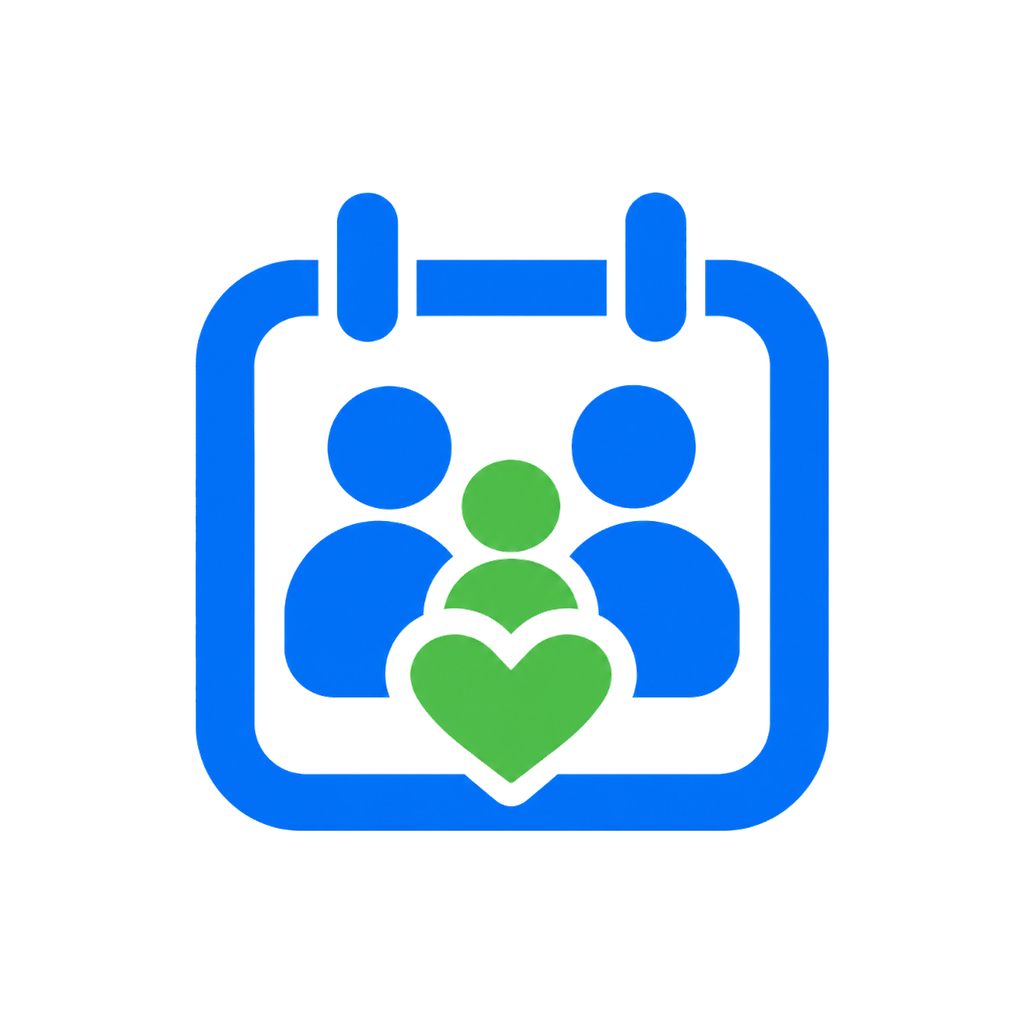
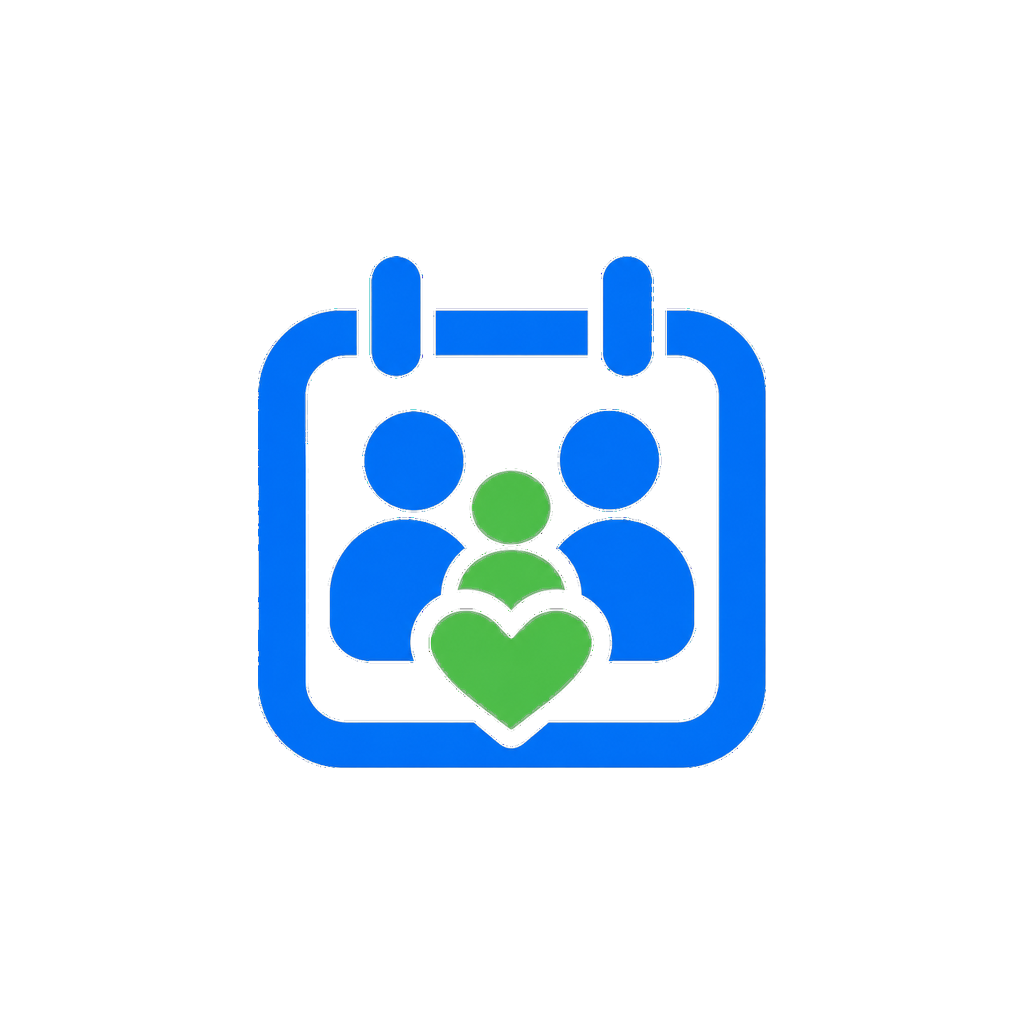
feat: lembrete para o responsável, vencimento pela subtarefa e ícone Android
- lembretes de tarefa com responsável vão só para ele e quem criou
- agendador lê só tarefas pendentes
- tarefa principal vence junto da subtarefa mais tardia (app e API)
- ação com desfazer é gravada ao ir para segundo plano
- subtarefa desmarca de volta se o servidor recusar
- papéis de acessibilidade nos botões
- ícone adaptativo menor sobre azul-marinho; versão 1.1.0

Changed region(s): [[0.1875, 0.1875, 0.8125, 0.8125]]

diff --git a/functions/src/services/notifyDueTasks.ts b/functions/src/services/notifyDueTasks.ts
@@ -2,6 +2,14 @@ import { db } from "../config/firebase";
 import { isReminderDue, leadMinutesOf, localParts, reminderKey } from "./dueReminder";
 import { notifyUsers } from "./pushNotifications";
 type Recipient = { uid: string; lead: number };
+// Quem recebe o lembrete: privada, só quem criou; com responsável, ele e quem criou;
+// sem responsável, a família toda.
+export function reminderRecipients(task: Record<string, unknown>, members: Recipient[]) {
+  if (task.isPrivate === true) return members.filter((m) => m.uid === task.createdBy);
+  if (typeof task.assignedTo === "string" && task.assignedTo)
+    return members.filter((m) => m.uid === task.assignedTo || m.uid === task.createdBy);
+  return members;
+}
 const leadText = (lead: number) =>
   lead >= 1440 ? "amanhã" : lead >= 60 ? `em ${lead / 60} h` : `em ${lead} min`;
 // Lê o estado atual das tarefas a cada execução: excluídas, concluídas ou com a
@@ -10,8 +18,9 @@ const leadText = (lead: number) =>
 export async function notifyDueTasks(now: Date = new Date()) {
   const day = 24 * 60 * 60 * 1000;
   const dates = [-1, 0, 1].map((offset) => localParts(new Date(now.getTime() + offset * day)).date);
-  const snapshot = await db.collection("tasks").where("dueDate", "in", dates).get();
-  const pending = snapshot.docs.filter((doc) => doc.data().completed !== true && doc.data().skipped !== true);
+  // Só as pendentes: concluídas nem são lidas (roda a cada 5 minutos).
+  const snapshot = await db.collection("tasks").where("dueDate", "in", dates).where("completed", "==", false).get();
+  const pending = snapshot.docs.filter((doc) => doc.data().skipped !== true);
   const families = new Map<string, Promise<Recipient[]>>();
   const membersOf = (familyId: string) => {
     if (!families.has(familyId))
@@ -26,9 +35,7 @@ export async function notifyDueTasks(now: Date = new Date()) {
   for (const doc of pending) {
     const task = doc.data();
     if (typeof task.familyId !== "string") continue;
-    // Pública: toda a família. Privada: somente quem criou.
-    const members = await membersOf(task.familyId);
-    const recipients = task.isPrivate === true ? members.filter((m) => m.uid === task.createdBy) : members;
+    const recipients = reminderRecipients(task, await membersOf(task.familyId));
     const key = reminderKey(task);
     for (const { uid, lead } of recipients) {
       if (!isReminderDue(task, now, lead)) continue;

diff --git a/src/controllers/useTaskController.ts b/src/controllers/useTaskController.ts
@@ -1,4 +1,5 @@
 import { useEffect, useMemo, useRef, useState } from "react";
+import { AppState } from "react-native";
 import type { TaskFilter } from "../models/Navigation";
 import type { Profile } from "../models/Profile";
 import type { Task } from "../models/Task";
@@ -90,7 +91,16 @@ export function useTaskController(
       onActionError(failure);
     }
   };
+  const commitRef = useRef(commit);
+  commitRef.current = commit;
   useEffect(() => () => void commit(), [uid]);
+  // O app pode ser fechado em segundo plano: grava antes que a ação se perca.
+  useEffect(() => {
+    const subscription = AppState.addEventListener("change", (state) => {
+      if (state !== "active") void commitRef.current();
+    });
+    return () => subscription.remove();
+  }, []);
   const defer = async (task: Task, label: string, run: () => Promise<void>) => {
     await commit();
     setPending({ taskId: task.id, label });
@@ -109,9 +119,9 @@ export function useTaskController(
     if (task.completed || task.skipped) return toggleTask(task);
     await defer(task, "Tarefa concluída", () => toggleTask(task));
   };
-  // Marca na hora (otimista); se o servidor recusar, o tempo real desfaz.
+  // Marca na hora (otimista); se o servidor recusar, desmarca de volta.
   const toggleItem = async (task: Task, subtaskId: string) => {
-    setTasks((current) =>
+    const flip = () => setTasks((current) =>
       current.map((item) =>
         item.id !== task.id
           ? item
@@ -123,7 +133,13 @@ export function useTaskController(
             },
       ),
     );
-    await toggleSubtask(task, subtaskId);
+    flip();
+    try {
+      await toggleSubtask(task, subtaskId);
+    } catch (failure) {
+      flip();
+      throw failure;
+    }
   };
   const skip = async (task: Task) => {
     await commit();

diff --git a/functions/src/shared/validateTask.ts b/functions/src/shared/validateTask.ts
@@ -92,11 +92,12 @@ export function validateTask(merged: Raw) {
         dueTime: optionalString(item.dueTime),
       });
     });
+  const due = latestDue(merged.dueDate as string, (dueTime as string) || null, subtasks);
   const data = {
     title,
     description: (description as string).trim(),
-    dueDate: merged.dueDate as string,
-    dueTime: dueTime || null,
+    dueDate: due.dueDate,
+    dueTime: due.dueTime,
     category: category as string,
     isPrivate: isPrivate as boolean,
     assignedTo: assignedTo as string | null,
@@ -107,4 +108,29 @@ export function validateTask(merged: Raw) {
     recurrenceEndDate,
   };
   return { data, errors };
+}
+
+// A tarefa principal não pode vencer antes das subtarefas: se alguma subtarefa
+// vence depois, a principal passa a usar essa data (e o horário dela, se tiver).
+type Due = { dueDate?: unknown; dueTime?: unknown };
+export function latestDue(
+  dueDate: string,
+  dueTime: string | null,
+  subtasks: readonly Due[],
+): { dueDate: string; dueTime: string | null } {
+  let date = dueDate;
+  let time = dueTime;
+  for (const item of subtasks) {
+    if (typeof item.dueDate !== "string" || !item.dueDate) continue;
+    const itemTime = typeof item.dueTime === "string" && item.dueTime ? item.dueTime : null;
+    // Datas AAAA-MM-DD e horários HH:MM comparam certo como texto. Sem horário = fim do dia.
+    const later =
+      item.dueDate > date ||
+      (item.dueDate === date && time !== null && (itemTime === null || itemTime > time));
+    if (later) {
+      date = item.dueDate;
+      time = itemTime;
+    }
+  }
+  return { dueDate: date, dueTime: time };
 }

diff --git a/src/views/CalendarView.tsx b/src/views/CalendarView.tsx
@@ -51,15 +51,15 @@ export function CalendarView({ controller }: { controller: AgendaController }) {
     <>
       <View style={s.card}>
         <View style={s.row}>
-          <Pressable accessibilityLabel="Mês anterior" onPress={() => move(-1)} hitSlop={10}>
+          <Pressable accessibilityRole="button" accessibilityLabel="Mês anterior" onPress={() => move(-1)} hitSlop={10}>
             <Icon name="chevron-back" size={26} />
           </Pressable>
-          <Pressable onPress={goToday} accessibilityLabel="Voltar para hoje">
+          <Pressable accessibilityRole="button" onPress={goToday} accessibilityLabel="Voltar para hoje">
             <Text style={s.heading}>
               {monthNames[month.month]} {month.year}
             </Text>
           </Pressable>
-          <Pressable accessibilityLabel="Próximo mês" onPress={() => move(1)} hitSlop={10}>
+          <Pressable accessibilityRole="button" accessibilityLabel="Próximo mês" onPress={() => move(1)} hitSlop={10}>
             <Icon name="chevron-forward" size={26} />
           </Pressable>
         </View>
@@ -169,7 +169,7 @@ function MonthHolidays({
     <View style={s.card}>
       <Text style={s.label}>Feriados de {monthNames[month].toLowerCase()}</Text>
       {list.map((h) => (
-        <Pressable key={h.date + h.name} onPress={() => onSelect(h.date)}>
+        <Pressable accessibilityRole="button" key={h.date + h.name} onPress={() => onSelect(h.date)}>
           <Text style={s.muted}>
             {formatShortDate(h.date).slice(0, 5)} · {h.name}
             {h.optional ? " (ponto facultativo)" : ""}

diff --git a/src/components/ui/BottomSheet.tsx b/src/components/ui/BottomSheet.tsx
@@ -38,7 +38,7 @@ export function BottomSheet({
         style={s.sheetBackdrop}
         behavior={Platform.OS === "ios" ? "padding" : "height"}
       >
-        <Pressable
+        <Pressable accessibilityRole="button"
           style={{ flex: 1 }}
           accessibilityLabel="Fechar"
           onPress={onClose}
@@ -47,7 +47,7 @@ export function BottomSheet({
           <View style={s.sheetHandle} />
           <View style={s.row}>
             <Text style={s.heading}>{title}</Text>
-            <Pressable onPress={onClose} hitSlop={10} accessibilityLabel="Fechar">
+            <Pressable accessibilityRole="button" onPress={onClose} hitSlop={10} accessibilityLabel="Fechar">
               <Text style={s.accentLink}>Fechar</Text>
             </Pressable>
           </View>

diff --git a/src/components/settings/MembersCard.tsx b/src/components/settings/MembersCard.tsx
@@ -42,7 +42,7 @@ export function MembersCard({
             </Text>
             {isAdmin && (
               <View style={s.actionsRow}>
-                <Pressable
+                <Pressable accessibilityRole="button"
                   disabled={busy}
                   onPress={() => onSetRole(member, nextRole)}
                 >
@@ -53,7 +53,7 @@ export function MembersCard({
                   </Text>
                 </Pressable>
                 {!self && (
-                  <Pressable disabled={busy} onPress={() => onRemove(member)}>
+                  <Pressable accessibilityRole="button" disabled={busy} onPress={() => onRemove(member)}>
                     <Text style={s.dangerLink}>Remover do grupo</Text>
                   </Pressable>
                 )}

diff --git a/src/services/tasks/saveTask.ts b/src/services/tasks/saveTask.ts
@@ -13,6 +13,7 @@ import type { Profile } from "../../models/Profile";
 import type { Task } from "../../models/Task";
 import type { TaskInput } from "../../models/TaskInput";
 import { validateTaskInput } from "../../utils/validateTaskInput";
+import { latestDue } from "../../../functions/src/shared/validateTask.ts";
 export async function saveTask(
   profile: Profile,
   input: TaskInput,
@@ -43,6 +44,7 @@ export async function saveTask(
     lastModifiedBy: profile.uid,
     updatedAt: serverTimestamp(),
   };
+  Object.assign(data, latestDue(data.dueDate, data.dueTime ?? null, data.subtasks));
   if (existing) {
     requireCanEditTask(existing, profile);
     await updateDoc(doc(db, "tasks", existing.id), data);

diff --git a/src/components/tasks/TaskCard.tsx b/src/components/tasks/TaskCard.tsx
@@ -113,7 +113,7 @@ export function TaskCard({
             {task.skipped && <Text style={s.skippedText}>Pulada · não concluída</Text>}
           </View>
           {canSkip && (
-            <Pressable disabled={busy} onPress={() => onSkip(task)} hitSlop={8}>
+            <Pressable accessibilityRole="button" disabled={busy} onPress={() => onSkip(task)} hitSlop={8}>
               <View style={s.inlineAction}>
                 <Icon name="play-skip-forward-outline" size={16} />
                 <Text style={[s.link, { paddingVertical: 0 }]}>Pular</Text>

diff --git a/src/views/SettingsView.tsx b/src/views/SettingsView.tsx
@@ -37,7 +37,7 @@ export function SettingsView({ controller }: { controller: AgendaController }) {
     <>
       <View style={s.row}>
         <Text style={s.heading}>Configurações</Text>
-        <Pressable onPress={() => setTab("tasks")} style={s.inlineAction}>
+        <Pressable accessibilityRole="button" onPress={() => setTab("tasks")} style={s.inlineAction}>
           <Icon name="chevron-back" size={18} color={colors.accent} />
           <Text style={s.accentLink}>Voltar</Text>
         </Pressable>

diff --git a/src/views/TasksView.tsx b/src/views/TasksView.tsx
@@ -62,7 +62,7 @@ export function TasksView({ controller }: { controller: AgendaController }) {
             ...(showPrivate ? ([["private", "Privadas"]] as const) : []),
           ] as const
         ).map(([key, label]) => (
-          <Pressable
+          <Pressable accessibilityRole="tab" accessibilityState={{ selected: filter === key }}
             key={key}
             style={[s.chip, filter === key && s.selectedChip]}
             onPress={() => setFilter(key)}

diff --git a/src/views/TaskFormView.tsx b/src/views/TaskFormView.tsx
@@ -159,7 +159,7 @@ export function TaskFormView({ controller }: { controller: AgendaController }) {
               onSubmitEditing={add}
             />
           </View>
-          <Pressable disabled={!newSubtask.trim()} onPress={add} hitSlop={8}>
+          <Pressable accessibilityRole="button" disabled={!newSubtask.trim()} onPress={add} hitSlop={8}>
             <Text style={s.link}>Adicionar</Text>
           </Pressable>
         </View>

diff --git a/src/components/tasks/RecurrencePicker.tsx b/src/components/tasks/RecurrencePicker.tsx
@@ -104,7 +104,7 @@ export function RecurrencePicker({
             {weekDayNames.map((name, day) => {
               const selected = weekDays.includes(day);
               return (
-                <Pressable
+                <Pressable accessibilityRole="checkbox" accessibilityState={{ checked: selected }}
                   key={name}
                   onPress={() =>
                     setWeekDays((current) =>
